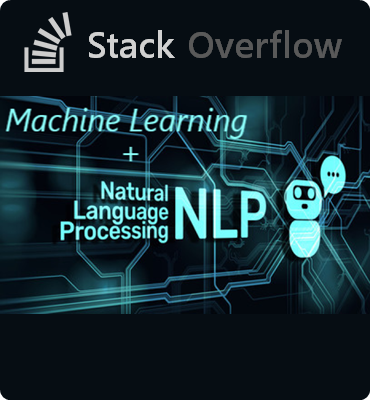
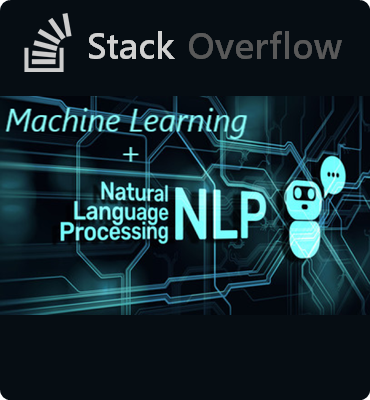
updated

diff --git a/pages/Previsao_de_Processamento_de_Linguagem_Natural_com_modelo_lineares.html b/pages/Previsao_de_Processamento_de_Linguagem_Natural_com_modelo_lineares.html
@@ -13084,7 +13084,7 @@ div#notebook {
 <div class="cell border-box-sizing text_cell rendered"><div class="prompt input_prompt">
 </div><div class="inner_cell">
 <div class="text_cell_render border-box-sizing rendered_html">
-<p><img src="../images/nlp.png" width="2000"/></p>
+<p><img src="../images/NLP_banner.png" width="2000"/></p>
 
 </div>
 </div>
